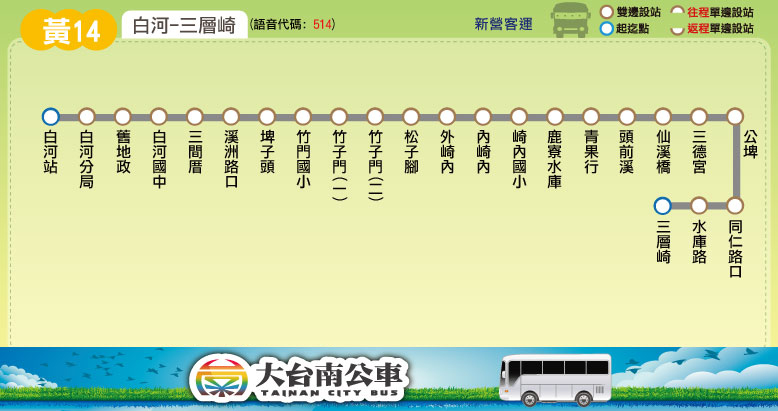
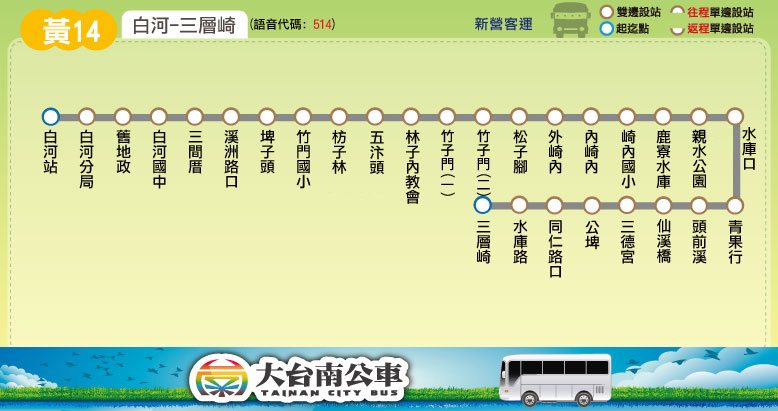
Modify y14

Changed region(s): [[0.401, 0.3212, 0.9563, 0.6715], [0.9563, 0.292, 0.9871, 0.4088]]

diff --git a/route/fare_and_time/yellow_14.js b/route/fare_and_time/yellow_14.js
@@ -1,12 +1,14 @@
-yellow_14_interval_name = ["白河","三間厝","埤子頭","竹子門","外崎內","內崎內","鹿寮水庫","頭前溪","同仁路口","三層崎"];
+yellow_14_interval_name = ["白河","三間厝","埤子頭","枋子林","林子內<br />教會","竹子門","外崎內","內崎內","鹿寮<br />水庫","頭前溪","同仁<br />路口","三層崎"];
 yellow_14_interval_stop = [
 ["白河站","白河分局","舊地政","白河國中"], // 白河
 ["三間厝"], // 三間厝
-["溪洲路口","埤子頭"], // 埤子頭
-["竹門國小","竹子門(一)","竹子門(二)"], // 竹子門
+["溪洲路口","埤子頭","竹門國小"], // 埤子頭
+["枋子林","五汴頭"], // 枋子林
+["林子內教會"], // 林子內教會
+["竹子門(一)","竹子門(二)"], // 竹子門
 ["松子腳","外崎內"], // 外崎內
 ["內崎內","崎內國小"], // 內崎內
-["鹿寮水庫","青果行"], // 鹿寮水庫
+["鹿寮水庫","親水公園","水庫口","青果行"], // 鹿寮水庫
 ["頭前溪","仙溪橋","三德宮"], // 頭前溪
 ["公埤","同仁路口"], // 同仁路口
 ["水庫路","三層崎"] // 三層崎
@@ -18,17 +20,19 @@ yellow_14_fare = [
 [26,26,26],
 [26,26,26,26],
 [26,26,26,26,26],
-[26,26,26,26,26,26],
-[26,26,26,26,26,26,26],
-[26,26,26,26,26,26,26,26],
-[31,26,26,26,26,26,26,26,26],
-[33,26,26,26,26,26,26,26,26,26]
+[30,26,26,26,26,26],
+[33,26,26,26,26,26,26],
+[36,29,26,26,26,26,26,26],
+[39,32,28,26,26,26,26,26,26],
+[43,36,33,26,26,26,26,26,26,26],
+[49,42,39,31,27,26,26,26,26,26,26],
+[51,43,40,33,28,26,26,26,26,26,26,26]
 ];
 // format = [time at the start stop] or
 // [time, other] or
 // [time, start_stop, end_stop, other]
 yellow_14_main_stop_name = ["白河","三間厝","鹿寮水庫","三層崎"];
-yellow_14_main_stop_time_consume = [0, 5, 13, 20];
+yellow_14_main_stop_time_consume = [0, 5, 26, 33];
 yellow_14_important_stop = [0, 3]; // 白河, 三層崎
-yellow_14_time_go = [["06:40"],["07:50"],["10:20"],["17:40"]];
-yellow_14_time_return = [["06:10"],["07:05"],["08:20"],["10:50"]];
+yellow_14_time_go = [["06:35"],["07:50"],["10:20"],["17:40"]];
+yellow_14_time_return = [["06:00"],["07:08"],["08:23"],["10:53"]];
